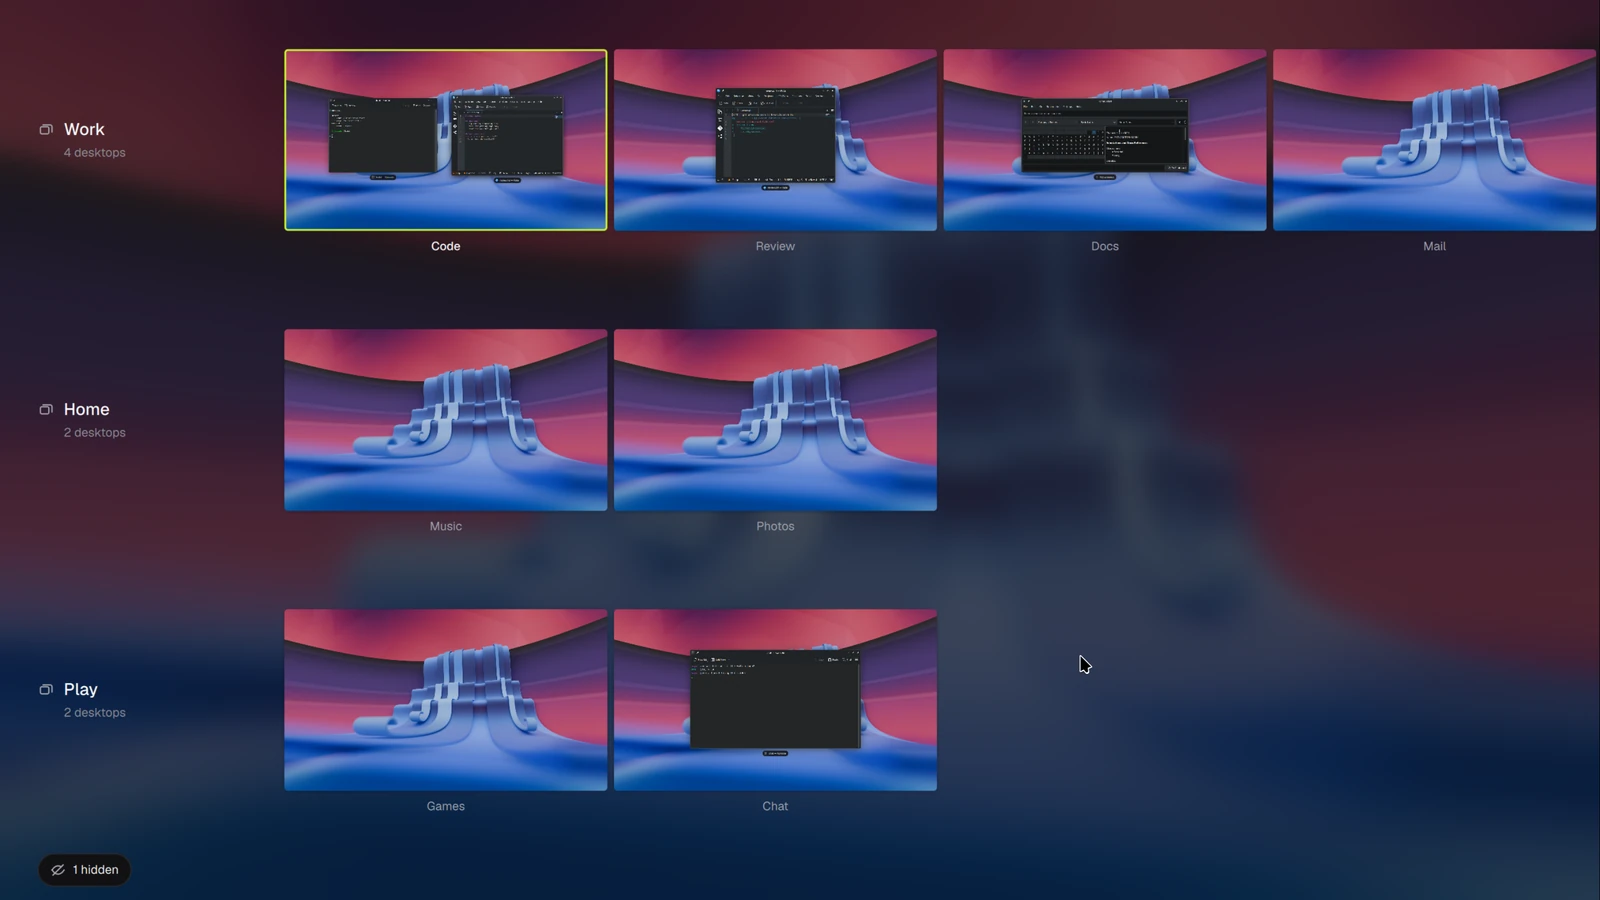
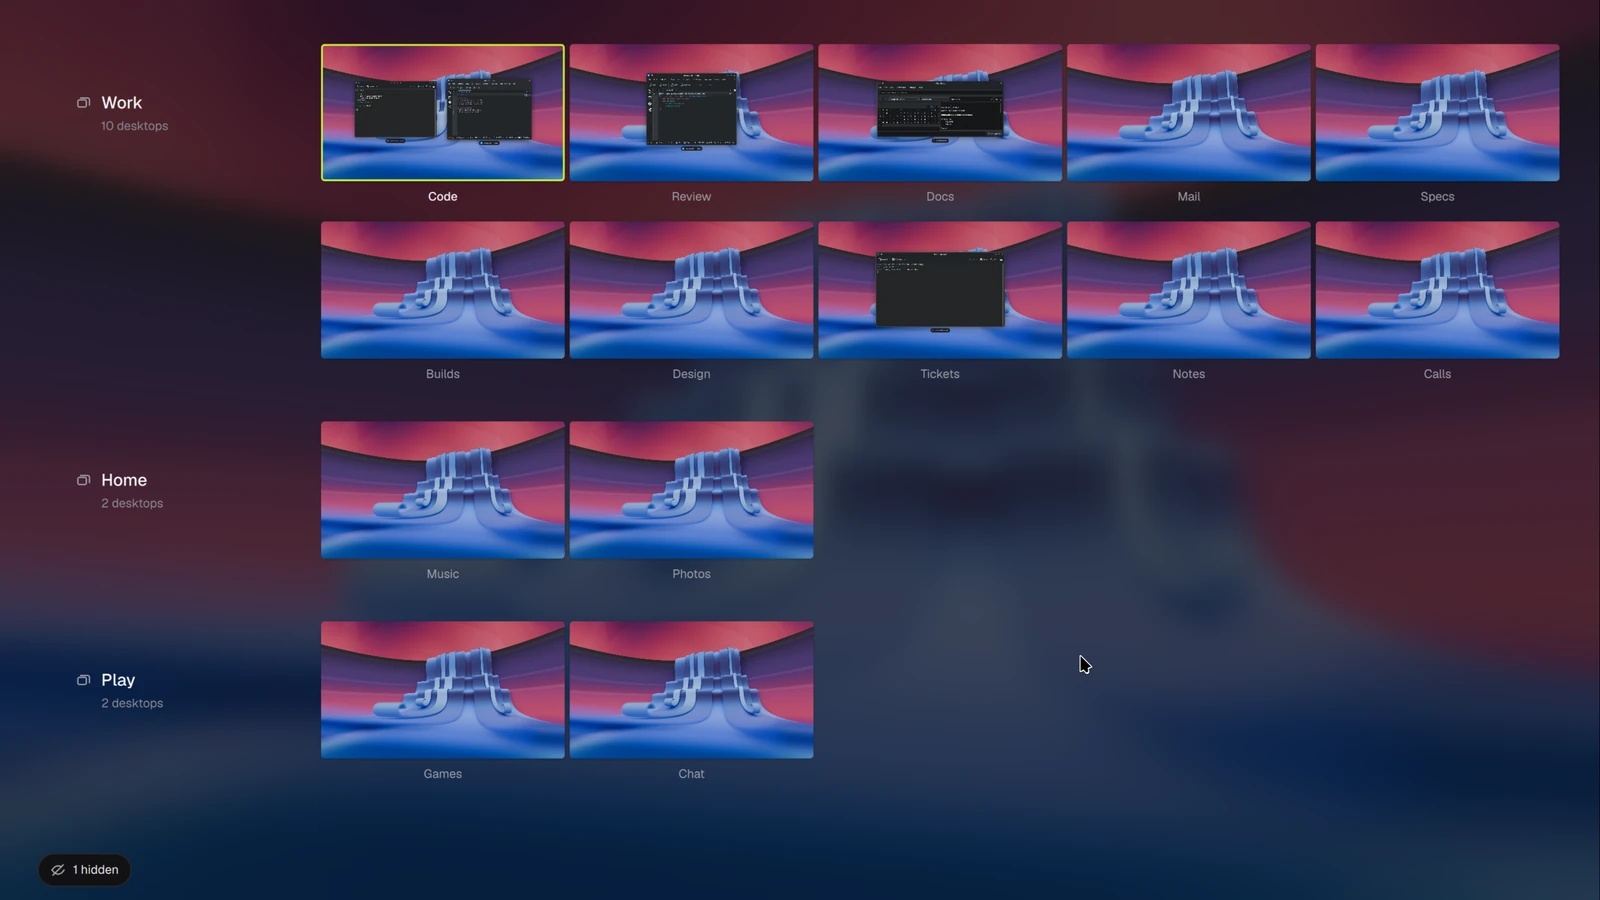
Grid View stacks long groups, lined up in columns, and sits centered
- Grid View with groups takes the column count that draws the desktops
  biggest; a group longer than that wraps onto more rows, lined up under the
  first column, its name beside its first row; the grid is centered. On a
  3440-wide screen with groups of 3, 3, 11 and 2, desktops are drawn 1.75
  times as wide as one row per group gave. Arrow keys follow the rows as
  drawn. Checked by the new gridstack scenario on Plasma 6.7.5 and 6.8.3.
- Hidden desktops light no notification beacon.
- The README shows both, with a new Grid View picture.

diff --git a/package/contents/ui/impl/Main.qml b/package/contents/ui/impl/Main.qml
@@ -462,19 +462,75 @@ FocusScope {
         }
         return out;
     }
-    // each desktop's row and column in the group grid, by KWin's id for it
-    readonly property var gridPos: {
-        const out = {};
-        gridGroups.forEach((g, r) => g.desktops.forEach((d, c) => out[d.id] = { row: r, col: c }));
-        return out;
-    }
-    // the grid's room: a column of row headings on the left, the "hidden" line at the bottom
+    // the grid's room: a column of group names left of the desktops, the "hidden" line at the bottom
     readonly property real gridHeadWidth: groupGrid ? 300 : 0
     readonly property real gridFootHeight: groupGrid && hiddenDesktops.length > 0 ? 64 : 0
-    readonly property int gridColumnsN: groupGrid ? Math.max(1, ...gridGroups.map(g => g.desktops.length)) : columns
-    readonly property int gridRowsN: groupGrid ? Math.max(1, gridGroups.length) : rows
-    readonly property real gridCellW: (width - gridHeadWidth) / gridColumnsN
-    readonly property real gridCellH: (height - gridFootHeight) / gridRowsN
+    // Ectoview: the group grid's layout (design proposal 10, lined up in columns): of every column
+    // count, the one that draws the desktops biggest; a group with more desktops than that wraps
+    // onto more lines, each starting under the first column; the whole grid centered on the screen.
+    // (Logged when it changes, for the tests: "Ectoview: grid layout")
+    readonly property var gridLayout: {
+        if (!groupGrid) {
+            return null;
+        }
+        const label = 40, margin = 40, groupGap = 24;
+        const ns = gridGroups.map(g => g.desktops.length);
+        const longest = Math.max(1, ...ns);
+        let best = null;
+        for (let c = 1; c <= longest; c++) {
+            const lines = ns.reduce((a, n) => a + Math.ceil(n / c), 0);
+            const cw = (width - gridHeadWidth - 2 * margin) / c;
+            const ch = (height - gridFootHeight - 2 * margin - Math.max(0, ns.length - 1) * groupGap) / Math.max(1, lines) - label;
+            const sc = Math.min(cw / width, ch / height);
+            // a tie goes to fewer lines
+            if (!best || sc > best.s + 1e-6) {
+                best = { cols: c, lines: lines, s: sc };
+            }
+        }
+        const cellW = best.s * width, cellH = best.s * height + label;
+        const usedCols = Math.min(best.cols, longest);
+        const gridW = gridHeadWidth + usedCols * cellW;
+        const gridH = best.lines * cellH + Math.max(0, ns.length - 1) * groupGap;
+        const x0 = Math.max(0, (width - gridW) / 2), y0 = Math.max(0, (height - gridFootHeight - gridH) / 2);
+        const tops = [];
+        let y = y0;
+        for (const n of ns) {
+            tops.push(y);
+            y += Math.ceil(n / best.cols) * cellH + groupGap;
+        }
+        return { cols: best.cols, lines: best.lines, s: best.s, cellW: cellW, cellH: cellH, x0: x0, y0: y0, head: gridHeadWidth, tops: tops };
+    }
+    onGridLayoutChanged: if (gridLayout) console.info("Ectoview: grid layout " + targetScreen.name + " " + JSON.stringify(gridLayout))
+    // the grid's lines as drawn (a long group's desktops on more than one), top to bottom
+    readonly property var gridLines: {
+        const out = [];
+        if (!gridLayout) {
+            return out;
+        }
+        gridGroups.forEach((g, gi) => {
+            for (let i = 0; i < g.desktops.length; i += gridLayout.cols) {
+                out.push({ group: gi, desktops: g.desktops.slice(i, i + gridLayout.cols), y: gridLayout.tops[gi] + i / gridLayout.cols * gridLayout.cellH });
+            }
+        });
+        return out;
+    }
+    // each desktop's line and column in the group grid, and where it's drawn, by KWin's id for it
+    readonly property var gridPos: {
+        const out = {};
+        // (no layout: Grid View with groups is closing, or not shown)
+        if (!gridLayout) {
+            return out;
+        }
+        gridLines.forEach((l, li) => l.desktops.forEach((d, c) => out[d.id] = {
+            row: li, col: c, x: gridLayout.x0 + gridLayout.head + c * gridLayout.cellW, y: l.y }));
+        return out;
+    }
+    // (groupGrid can change a moment before gridLayout follows it)
+    readonly property bool gridLaidOut: groupGrid && !!gridLayout
+    readonly property int gridColumnsN: gridLaidOut ? gridLayout.cols : columns
+    readonly property int gridRowsN: gridLaidOut ? Math.max(1, gridLayout.lines) : rows
+    readonly property real gridCellW: gridLaidOut ? gridLayout.cellW : (width - gridHeadWidth) / gridColumnsN
+    readonly property real gridCellH: gridLaidOut ? gridLayout.cellH : (height - gridFootHeight) / gridRowsN
     // how small a desktop is drawn in the grid (Overview's 1 / the larger of rows and columns)
     readonly property real gridScaleS: Math.min(gridCellW / width, gridCellH / height)
     // a desktop dragged over another group's row in the grid: that group, lit up
@@ -490,7 +546,8 @@ FocusScope {
             KWinComponents.Workspace.moveDesktop(desktop, from < last ? last : last + 1);
         }
     }
-    // arrow keys in the group grid: across a row, and up and down between rows
+    // arrow keys in the group grid: across a line, and up and down between lines as drawn (a long
+    // group's second line is below its first)
     function selectNextInGroupGrid(direction) {
         const at = gridPos[currentDesktop ? currentDesktop.id : ""];
         if (!at) {
@@ -503,10 +560,10 @@ FocusScope {
         case EctoWindowHeap.Direction.Left: c--; inverted = EctoWindowHeap.Direction.Right; break;
         case EctoWindowHeap.Direction.Right: c++; inverted = EctoWindowHeap.Direction.Left; break;
         }
-        if (r < 0 || r >= gridGroups.length || c < 0) {
+        if (r < 0 || r >= gridLines.length || c < 0) {
             return false;
         }
-        const row = gridGroups[r].desktops;
+        const row = gridLines[r].desktops;
         if (c >= row.length) {
             if (r === at.row) {
                 return false;
@@ -867,15 +924,19 @@ FocusScope {
                 required property int index
                 visible: gridVal > 0
                 opacity: gridVal
-                x: 0
-                y: index * container.gridCellH
-                width: container.width
-                height: container.gridCellH
+                // the group's lines: from its first to its last, as many columns wide as its longest
+                // (a row is made a moment before the layout has a place for it, as the Hidden row comes in)
+                readonly property var layout: container.gridLayout
+                readonly property int lineCount: layout ? Math.ceil(modelData.desktops.length / layout.cols) : 1
+                x: layout ? layout.x0 : 0
+                y: layout ? (layout.tops[index] ?? 0) : 0
+                width: (layout ? layout.head + Math.min(modelData.desktops.length, layout.cols) * container.gridCellW : 0)
+                height: lineCount * container.gridCellH
                 Rectangle {
                     x: container.gridHeadWidth - 16
-                    y: 10
-                    width: gridRowItem.modelData.desktops.length * container.gridCellW + 32
-                    height: parent.height - 20
+                    y: -12
+                    width: (gridRowItem.layout ? Math.min(gridRowItem.modelData.desktops.length, gridRowItem.layout.cols) : 1) * container.gridCellW + 32
+                    height: parent.height + 4
                     radius: 16
                     readonly property bool target: container.gridDropGroup === gridRowItem.modelData.id
                     color: target ? Qt.rgba(effect.theme.accent.r, effect.theme.accent.g, effect.theme.accent.b, 0.08) : "transparent"
@@ -899,10 +960,11 @@ FocusScope {
                         }
                     }
                 }
+                // the group's name beside its first line, halfway down that line's desktops
                 Column {
                     x: 40
                     width: container.gridHeadWidth - 72
-                    anchors.verticalCenter: parent.verticalCenter
+                    y: ((gridRowItem.layout ? gridRowItem.layout.s : 0) * container.height - implicitHeight) / 2
                     spacing: 4
                     Row {
                         spacing: 10
@@ -1125,15 +1187,17 @@ FocusScope {
                     },
                     // Further little translation in the grids to align the elements
                     // to the center of their cell
+                    // (Ectoview: in the group grid a cell is the desktop's own width, and its name's
+                    // room below, so the desktop sits at the cell's top)
                     Translate{
                         x: (container.gridCellW - width * container.gridScaleS) / 2 * gridVal
-                        y: (container.gridCellH - height * container.gridScaleS) / 2 * gridVal
+                        y: container.groupGrid ? 0 : (container.gridCellH - height * container.gridScaleS) / 2 * gridVal
                     },
                     // When in desktop grid, translates the desktop so that the whole
-                    // grid fits in the view
+                    // grid fits in the view (Ectoview: the group grid's place for it, from gridPos)
                     Translate {
-                        x: (container.gridHeadWidth + mainBackground.gridColumn * container.gridCellW) * gridVal
-                        y: mainBackground.gridRow * container.gridCellH * gridVal
+                        x: (mainBackground.gridAt ? mainBackground.gridAt.x : container.gridHeadWidth + mainBackground.gridColumn * container.gridCellW) * gridVal
+                        y: (mainBackground.gridAt ? mainBackground.gridAt.y : mainBackground.gridRow * container.gridCellH) * gridVal
                     },
                     // Initially places transition desktops in a grid around the current one,
                     // and moves them slightly to avoid overlapping the UI

diff --git a/tests/e2e/check.py b/tests/e2e/check.py
@@ -379,6 +379,53 @@ elif scenario == 'gridgroups':
     dc = line('dragged code')
     check("a desktop dragged into another group's row joins that group, at the end of its row", 'Work,Design,Code,Music' in dc and re.search(r'd2=g1\b', dc), dc)
     check('arrow keys move between rows in the group grid', line('down').endswith('current Design'), line('down'))
+elif scenario in ('gridstack', 'plant-gridstack'):
+    common()
+    steps = (out / 'steps.log').read_text(errors='replace') if (out / 'steps.log').exists() else ''
+    lays = re.findall(r'Ectoview: grid layout Virtual-1 (\{.*\})', log)
+    places = dict((k, float(v)) for k, v in re.findall(r'(\w+)=(-?[\d.]+)', (re.search(r'places: (.*)', steps) or [None, ''])[1]))
+    im = img('grid')
+    if lays and places and im:
+        L = json.loads(lays[-1]); cols = L['cols']
+        mw = places['mw']; s = im.height / 1440; ox = im.width - round(3440 * s)
+        lum = lambda x, y: sum(im.getpixel((ox + round(x * s), round(y * s)))) / 3
+        # what's drawn along the middle of Development's first line: the desktops (Plasma's bright
+        # wallpaper) against the dimmed backdrop, measured across the whole screen
+        y1 = L['tops'][2] + L['s'] * 1440 / 2
+        lit = [x for x in range(0, int(mw), 2) if lum(x, y1) > 120]
+        runs, start = [], None
+        for a_, b_ in zip(lit, lit[1:] + [None]):
+            start = a_ if start is None else start
+            if b_ is None or b_ - a_ > 6:
+                runs.append((start, a_)); start = None
+        # a desktop's width, from the accent ring around the one you're on (D11, Development's fifth):
+        # the same on any wallpaper (a dark one breaks the bright runs up)
+        cx = L['x0'] + L['head'] + 4 * L['cellW'] + L['s'] * mw / 2
+        ring = [x for x in range(int(cx - L['cellW']), int(cx + L['cellW']))
+                if (lambda r, g, b: g > 200 and 150 < r < 245 and b < 110)(*im.getpixel((ox + round(x * s), round(y1 * s))))]
+        widest = (max(ring) - min(ring)) if ring else 0
+        one_line_w = (mw - 300) / 11
+        check("Development's eleven desktops stack onto lines, drawn wider than one line per group allows",
+              cols < 11 and widest > one_line_w * 1.3, f'{cols} columns; desktops drawn {widest} px wide, one line per group {one_line_w:.0f}')
+        # its second line is really there: its first desktop drawn where the layout puts it
+        y2 = y1 + L['cellH']
+        x2 = L['x0'] + L['head'] + L['s'] * mw / 2
+        check("and its second line is drawn below the first, lined up under the first column", lum(x2, y2) > 120 and lum(x2 - L['s'] * mw * 0.6, y2) < 110,
+              f'brightness {lum(x2, y2):.0f} inside its first desktop, {lum(x2 - L["s"] * mw * 0.6, y2):.0f} left of it')
+        # centered: the desktops of the full line span the middle, the names' column to their left
+        if runs:
+            left, right = runs[0][0], runs[-1][1]
+            mid = (left + right) / 2
+            check('the grid is centered on the screen (its desktops with the names\' column beside them)', abs(mid - (mw / 2 + L['head'] / 2)) < 40,
+                  f'desktops from {left} to {right} px; their middle {mid:.0f}, the grid\'s {mw / 2 + L["head"] / 2:.0f}')
+        want_down = f'D{11 + cols}' if 4 + cols < 11 else 'D11'
+        check('Down goes to the desktop below, on the next line', (re.search(r'down: current (\S+)', steps) or [None, ''])[1] == want_down,
+              (re.search(r'down: (.*)', steps) or [None, ''])[1] + f' (wanted {want_down})')
+        want_click = f'D{7 + cols}'
+        check("a click on the second line's first desktop goes there", (re.search(r'clicked: current (\S+)', steps) or [None, ''])[1] == want_click,
+              (re.search(r'clicked: (.*)', steps) or [None, ''])[1] + f' (wanted {want_click})')
+    else:
+        check('the grid pictured and its layout logged', False, f'{len(lays)} layouts, places {places}')
 elif scenario in ('arrows', 'plant-arrows'):
     common()
     steps = (out / 'steps.log').read_text(errors='replace') if (out / 'steps.log').exists() else ''

diff --git a/README.md b/README.md
@@ -45,7 +45,8 @@ biggest first. Each links to its section.
 |---|---|---|
 | [Desktop groups](#desktop-groups) | ❌ One long row of every desktop | ✅ Desktops sorted into groups you name (Work, Home, Play), one group in the bar at a time, stepped through with ^ and v or four new shortcuts |
 | [Notification beacons](#notification-beacons) | ❌ No: you find the desktop with the window that wants you | ✅ A dot beside each desktop's name lights when a window there asks for attention, and the groups' button lights for a group you aren't looking at |
-| [Hidden desktops](#hidden-desktops) | ❌ No | ✅ A Hidden group: desktops kept out of the bar and out of Grid View until you open it |
+| [Hidden desktops](#hidden-desktops) | ❌ No | ✅ A Hidden group: desktops kept out of the bar and out of Grid View until you open it, and quiet: they light no beacon |
+| [Grid View, by group](#grid-view-by-group) | Every desktop in one grid | A row per group, a long group stacked onto more rows lined up in columns, and the grid centered, so the desktops are drawn as big as the screen allows |
 | [Drag desktops into order](#drag-desktops-into-order) | Only in Grid View, by dropping a desktop on another | In the bar too, sliding the others aside, and the bar scrolls along when you reach its end |
 | [Carry a window to another desktop](#carry-a-window-to-another-desktop) | Drop it on a desktop in the bar | Also hold it on the < or > beside the big view: after a pause the view moves on, carrying the window |
 | [Group shortcuts with Ectoview closed](#step-through-groups) | — | The new group's desktop rises in where you are, instead of the screen sliding sideways past every desktop between |
@@ -104,13 +105,16 @@ Hidden is a group of its own: its desktops stay out of the bar and out of Grid V
 you choose Hidden in the list. The desktop you're on still shows in the bar, dimmed, with a
 badge saying where it lives.
 
-### Grid View, a row per group
+### Grid View, by group
 
-Grid View lays your desktops out a row per group, each row headed with its group's name.
-Drop a desktop on another row to move it to that group.
+Grid View lays your desktops out a row per group, each headed with its group's name, and
+sits in the middle of the screen. A group with more desktops than fit in a row wraps onto
+more rows, lined up in columns, so the desktops are drawn as big as the screen allows: on an
+ultrawide screen, a group of eleven takes two rows of six and five. Drop a desktop on
+another group's rows to move it to that group.
 
 <p align="center">
-  <img src="docs/pictures/readme-grid.webp" width="100%" alt="Grid View: a row for Work with Code, Review, Docs and Mail, a row for Home with Music and Photos, and a row for Play with Games and Chat, each row headed with its group's name">
+  <img src="docs/pictures/readme-grid.webp" width="100%" alt="Grid View in the middle of the screen: Work's ten desktops on two rows lined up in columns, then a row for Home with Music and Photos and a row for Play with Games and Chat, each group headed with its name">
 </p>
 
 ### Search what you're working on
